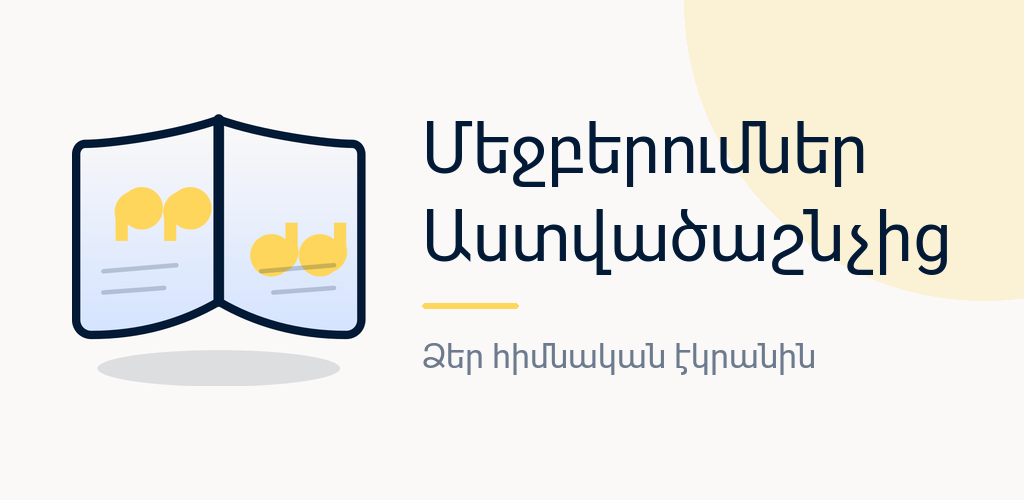
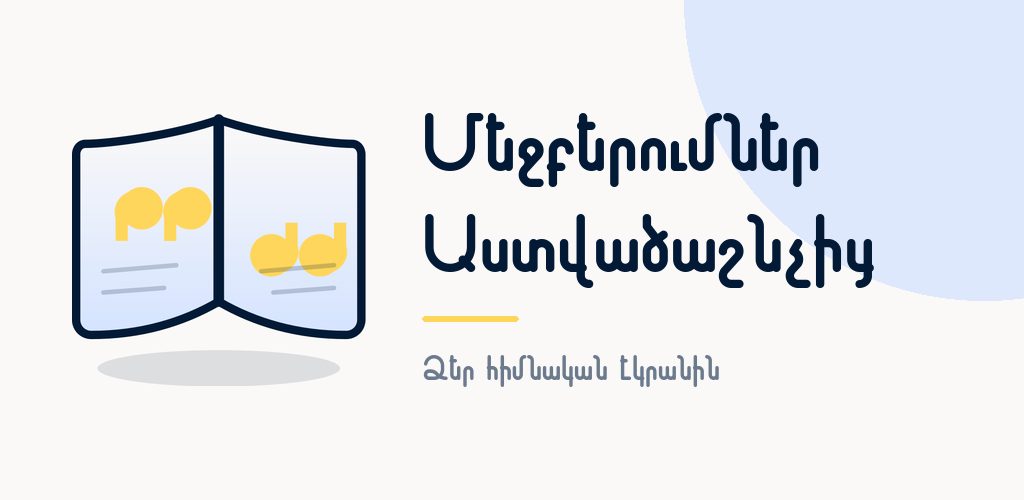
Rework the Armenian store listing and restyle the feature graphic.
The listing copy was written like translated English — long sentences, metaphors
that do not carry ("it lives on your screen"), and nested feature sections. It
now follows the voice in i18n/locales/hy.ts: short declarative sentences and the
app's own wording, as one flat feature list. Feature names are taken from the
settings screen so the listing and the UI agree, which also fixed a wrong claim
about the refresh intervals — there is no hourly option.

Feature graphic moves to davel-aghvor for both lines, and the corner wash to the
page blue sampled from the icon. That blue sits close to the background, so it
is blended at a much higher alpha than the yellow needed.

Also corrects the Data safety guidance in the release checklist: account data is
optional, not required. Guest mode means the widget works with no account, and
Google's rule is that data is optional when users can reach app content without
signing in.

Changed region(s): [[0.4062, 0.0, 1.0, 0.6], [0.4062, 0.69, 0.8125, 0.78], [0.4062, 0.6, 0.5, 0.66]]

diff --git a/client/store/play/listing.md b/client/store/play/listing.md
@@ -17,40 +17,39 @@ Play truncates titles near 20 characters in list views.
 Մեջբերումներ Աստվածաշնչից
 ```
 
+Wording follows `src/i18n/locales/hy.ts` — short declarative sentences, formal
+`Ձեր`, plain vocabulary, and the app's own phrasings (`հիմնական էկրանին`,
+`գրական ստեղծագործություններից`, `ընդհանուր հավաքածուին`) rather than anything
+translated out of English.
+
 ### Short description
 
 ```
-Ամեն օր նոր մեջբերում Աստվածաշնչից՝ ուղիղ Ձեր հիմնական էկրանին։
+Ամեն օր նոր մեջբերում Աստվածաշնչից՝ Ձեր հիմնական էկրանին
 ```
 
 ### Full description
 
 ```
-Դրեք մեջբերում Ձեր հեռախոսի հիմնական էկրանին և թող այն նորանա ինքնուրույն։
+Տեղադրեք վիջեթը Ձեր հիմնական էկրանին և ամեն օր տեսեք նոր մեջբերում Աստվածաշնչից կամ գրական ստեղծագործություններից։
 
-«Մեջբերումներ Աստվածաշնչից» հավելվածը վիջեթ է՝ Աստվածաշնչի և հայ գրականության
-մեջբերումներով։ Բացելու կարիք չկա. մեջբերումը միշտ էկրանին է։
+Հավելվածը բացելու կարիք չկա։ Մեջբերումը միշտ Ձեր աչքի առաջ է։
 
-ՎԻՋԵԹ՝ ՁԵՐ ՃԱՇԱԿՈՎ
+• Ութ դիզայն՝ Դասական, Մագաղաթ, Կեսգիշեր, Մութ, Ցրտաշունչ, Թափանցիկ և Սրբավայր
+• Սրբավայր դիզայնում ամեն նոր մեջբերման հետ փոխվում է նաև լուսանկարը
+• 15 հայկական տառատեսակ և կարգավորվող տառաչափ
 • Երեք չափս՝ 4×3, 4×4 և 4×5
-• 15 հայկական տառատեսակ՝ Վրծնագիր, Մարդոտո, Արցախ, Նոյեմի և այլն
-• Տարբեր ձևավորումներ և ֆոներ
-• Թափանցիկ տարբերակ՝ Ձեր պաստառի հետ ներդաշնակ
+• Նախադիտում՝ փոփոխությունները տեսնելու համար նախքան պահելը
+• Աղբյուրը՝ Աստվածաշունչ, Գրականություն, Միքս կամ միայն պահվածները
+• Թարմացումը՝ 6 ժամը մեկ, 12 ժամը մեկ, ամեն օր կամ ամեն օր կեսգիշերին
+• Էջանշեք և կիսվեք մեջբերումով ուղիղ վիջեթից
+• Կիսվեք գեղեցիկ քարտով
+• Ուղարկեք Ձեր մեջբերումը՝ վերանայումից հետո այն կհայտնվի ընդհանուր հավաքածուում
+• Ցույց տվեք կամ թաքցրեք մեջբերումն ավելացրած օգտատիրոջ անունը
 
-ԴՈՒՔ ԵՔ ԸՆՏՐՈՒՄ
-• Աղբյուրը՝ Աստվածաշունչ, գրականություն, խառը կամ միայն պահպանվածները
-• Թարմացման հաճախականությունը՝ ժամական, օրական կամ կեսգիշերին
+Գրանցումը պարտադիր չէ։ Գրանցվելու դեպքում Ձեր կարգավորումներն ու պահպանված մեջբերումները կվերականգնվեն նոր սարքում։
 
-ՊԱՀԵՔ ՈՒ ԿԻՍՎԵՔ
-• Պահպանեք սիրելի մեջբերումները մեկ հպումով
-• Կիսվեք գեղեցիկ քարտով ընկերների հետ
-• Ուղարկեք Ձեր մեջբերումը՝ հավաքածուին ավելացնելու համար
-
-ՀԱՇԻՎ
-Հաշիվը պարտադիր չէ՝ հավելվածն աշխատում է նաև առանց գրանցման։ Գրանցվելով՝ Ձեր
-կարգավորումներն ու պահպանված մեջբերումները կպահպանվեն և կվերականգնվեն նոր սարքում։
-
-Առանց գովազդի։ Առանց հետագծման։
+Առանց գովազդի։
 ```
 
 ---
@@ -72,31 +71,27 @@ A new Bible citation on your home screen every day. No app to open.
 ### Full description
 
 ```
-Put a citation on your home screen and let it change on its own.
+Put the widget on your home screen and see a new citation from the Bible or from
+Armenian literature every day.
 
-Bible Citations is a home-screen widget showing verses from the Bible and passages
-from Armenian literature. Nothing to open — the citation is simply there.
+Nothing to open. The citation is simply there.
 
-A WIDGET THAT FITS YOUR SCREEN
+• Eight designs: Classic, Parchment, Midnight, Noir, Frost, Transparent and Sanctuary
+• In Sanctuary the photograph changes with every new citation
+• 15 Armenian typefaces and an adjustable text size
 • Three sizes: 4×3, 4×4 and 4×5
-• 15 Armenian typefaces including Vrdznagir, Mardoto, Artsakh and Noyemi
-• Several designs and backgrounds
-• A transparent style that sits on your wallpaper
-
-YOU DECIDE WHAT APPEARS
+• Live preview, so you see a change before you save it
 • Source: Bible, literature, mixed, or only the ones you saved
-• Refresh: hourly, daily, or at midnight
+• Refresh every 6 hours, every 12 hours, daily, or daily at midnight
+• Bookmark and share a citation straight from the widget
+• Share it as a designed card
+• Submit your own — once reviewed, it joins the shared collection
+• Show or hide the name of whoever added the citation
 
-SAVE AND SHARE
-• Save the ones you love with a single tap
-• Share any citation as a designed card
-• Submit your own to be added to the collection
+An account is optional. Sign in and your settings and saved citations are
+restored on a new device.
 
-ACCOUNT
-An account is optional — the app works without signing up. Signing in keeps your
-settings and saved citations, and restores them on a new device.
-
-No ads. No tracking.
+No ads.
 ```
 
 ---

diff --git a/client/docs/play-store-release.md b/client/docs/play-store-release.md
@@ -225,12 +225,31 @@ Dashboard → **App content**. Play blocks release until all of it is green.
 **Data safety** is the fiddliest and the one Play cross-checks against the app's
 actual behaviour. Declare:
 
-- *Personal info* → Name, Email address — collected, not shared, required for
-  account creation, encrypted in transit, user can request deletion
+- *Personal info* → Name, Email address — **collected**, not shared, not
+  ephemeral, purposes *App functionality* + *Account management*
 - *App activity* → in-app actions (saved citations, widget settings)
 - *Crash logs* → Diagnostics, collected, not shared (Sentry, `sendDefaultPii:
   false`)
 - Data deletion question → `https://legal.citations.mnavasardian.com/delete-account`
+
+**Answer "users can choose whether this data is collected", not "required".**
+Guest mode means the widget works end to end with no account —
+`services/local-storage.ts` keeps settings and saved citations on the device —
+and Google's rule is that if users can reach app content without signing in, the
+account data is optional. Marking it required would be both wrong and a worse
+listing, since it would tell someone who never registers that their name and
+email are collected unavoidably.
+
+Nothing is **shared**. "Shared" means transferred to a third-party company:
+Sentry never receives the name or email, and Google Sign-In supplies them rather
+than receiving them. The name being visible to other users through
+`shareProfile` is not sharing in Play's sense — that is a privacy-policy
+disclosure, which `docs/legal/privacy.html` already makes.
+
+Leave *Developer communications* unchecked. Every mail in
+`server/src/services/email-service.ts` is transactional — verification, password
+reset, account deleted, citation approved or rejected. That purpose is for
+announcements and newsletters, which this app does not send.
 
 Do not declare location, contacts, photos or financial info — the app touches
 none of them, and over-declaring invites questions.
